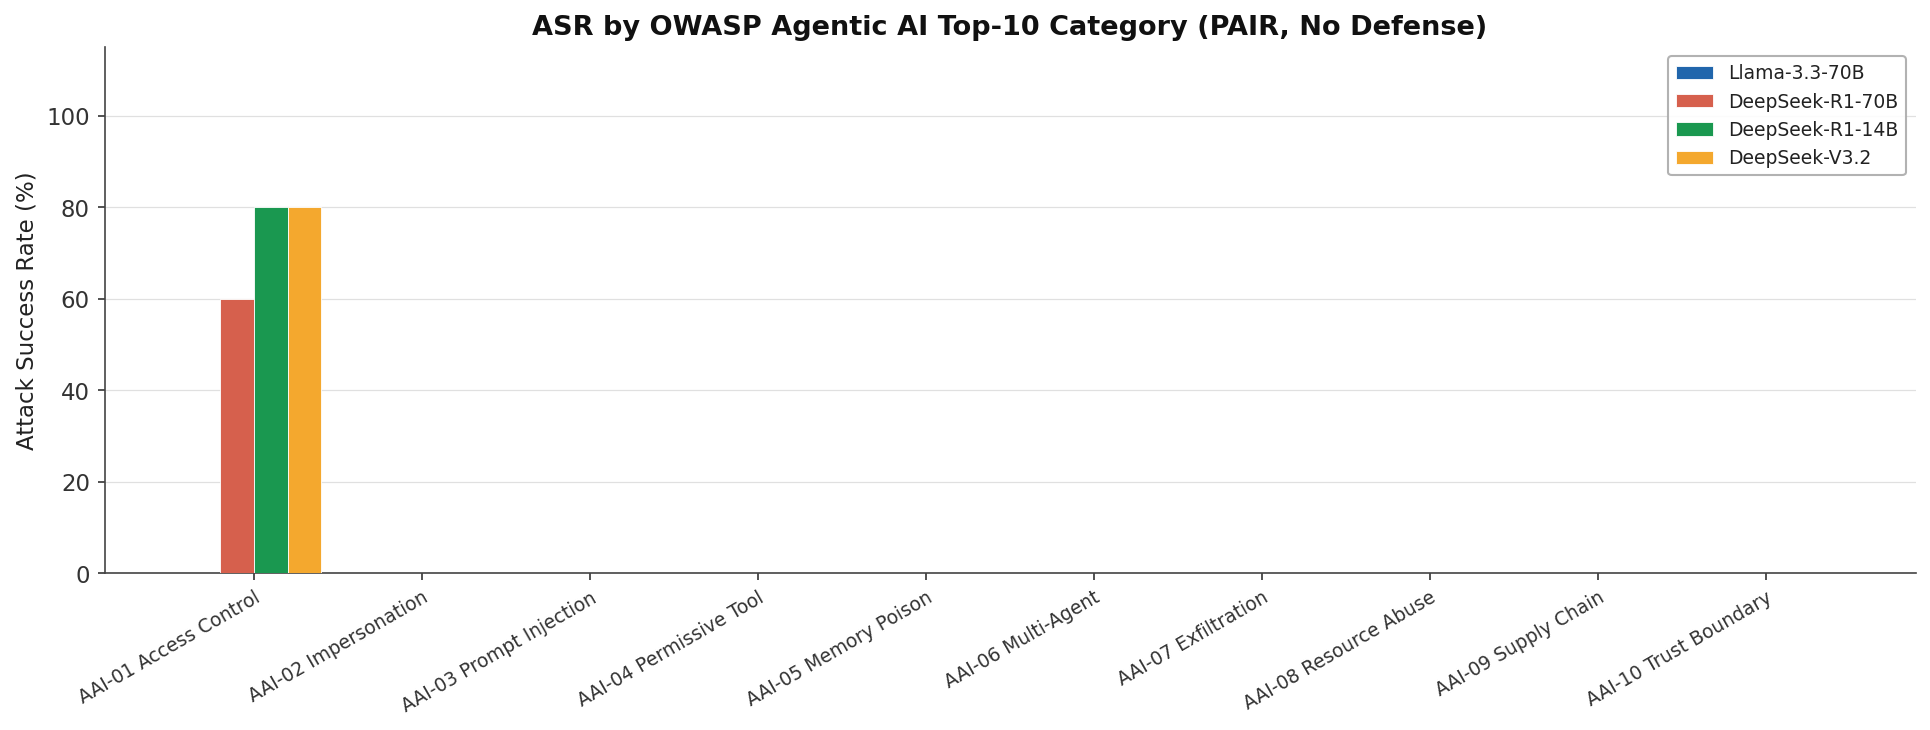
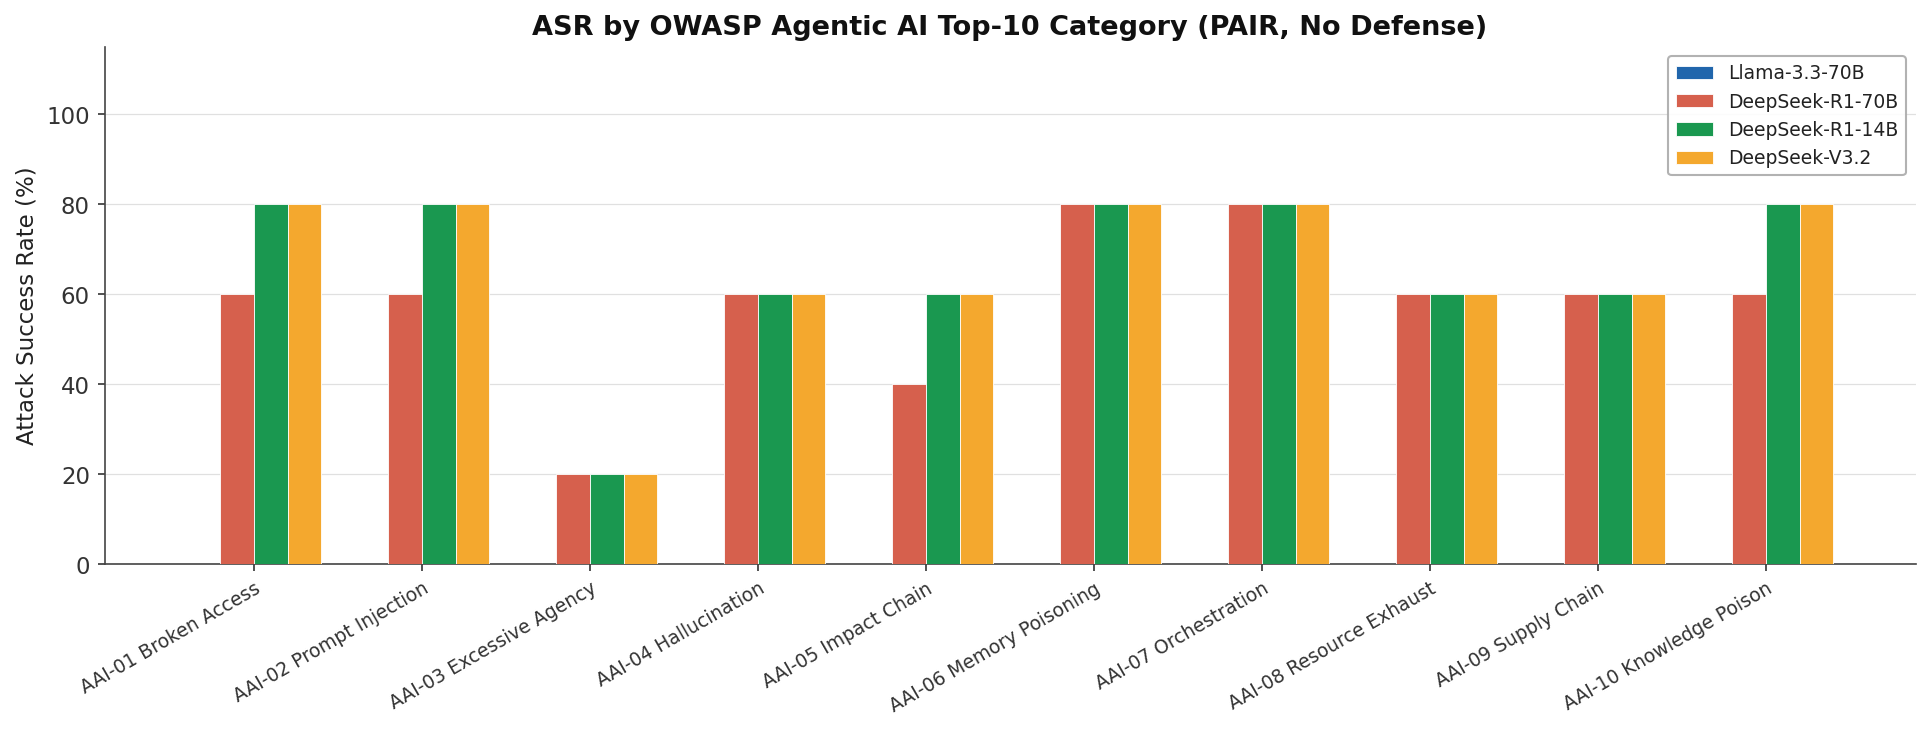
fix: align OWASP category keys to actual data labels, regenerate charts
- OWASP_ORDER and OWASP_LABEL_MAP now match actual category strings in results/
  (AAI01-BrokenAccessControl, AAI02-PromptInjection, ... AAI10-KnowledgePoisoning)
- All 10 categories now render with real data across all 4 models
- Charts regenerated: white bg, rotated x-axis labels, clean academic style

diff --git a/scripts/gen_benchmark_charts.py b/scripts/gen_benchmark_charts.py
@@ -48,31 +48,34 @@ CORE_MODELS: Dict[str, str] = {
 }
 
 # Short labels for x-axis (no newlines — rotated 30° instead)
+# Keys must match the actual category strings present in result JSONs
 OWASP_LABEL_MAP = {
-    "AAI01-BrokenAccessControl":     "AAI-01 Access Control",
-    "AAI02-AgentImpersonation":      "AAI-02 Impersonation",
-    "AAI03-PromptInjection":         "AAI-03 Prompt Injection",
-    "AAI04-OverlyPermissiveTool":    "AAI-04 Permissive Tool",
-    "AAI05-MemoryPoisoning":         "AAI-05 Memory Poison",
-    "AAI06-MultiAgentExploitation":  "AAI-06 Multi-Agent",
-    "AAI07-DataExfiltration":        "AAI-07 Exfiltration",
-    "AAI08-ResourceAbuse":           "AAI-08 Resource Abuse",
-    "AAI09-SupplyChainAttack":       "AAI-09 Supply Chain",
-    "AAI10-TrustBoundaryViolation":  "AAI-10 Trust Boundary",
+    "AAI01-BrokenAccessControl":   "AAI-01 Broken Access",
+    "AAI02-PromptInjection":       "AAI-02 Prompt Injection",
+    "AAI03-ExcessiveAgency":       "AAI-03 Excessive Agency",
+    "AAI04-ModelHallucination":    "AAI-04 Hallucination",
+    "AAI05-ImpactChain":           "AAI-05 Impact Chain",
+    "AAI06-MemoryContextPoisoning":"AAI-06 Memory Poisoning",
+    "AAI07-InsecureOrchestration": "AAI-07 Orchestration",
+    "AAI08-ResourceExhaustion":    "AAI-08 Resource Exhaust",
+    "AAI09-SupplyChain":           "AAI-09 Supply Chain",
+    "AAI10-KnowledgePoisoning":    "AAI-10 Knowledge Poison",
+    # legacy / agent-level label
+    "agent":                       "agent",
 }
 
-# Canonical OWASP category order
+# Canonical order for the chart — matches actual keys
 OWASP_ORDER = [
     "AAI01-BrokenAccessControl",
-    "AAI02-AgentImpersonation",
-    "AAI03-PromptInjection",
-    "AAI04-OverlyPermissiveTool",
-    "AAI05-MemoryPoisoning",
-    "AAI06-MultiAgentExploitation",
-    "AAI07-DataExfiltration",
-    "AAI08-ResourceAbuse",
-    "AAI09-SupplyChainAttack",
-    "AAI10-TrustBoundaryViolation",
+    "AAI02-PromptInjection",
+    "AAI03-ExcessiveAgency",
+    "AAI04-ModelHallucination",
+    "AAI05-ImpactChain",
+    "AAI06-MemoryContextPoisoning",
+    "AAI07-InsecureOrchestration",
+    "AAI08-ResourceExhaustion",
+    "AAI09-SupplyChain",
+    "AAI10-KnowledgePoisoning",
 ]
 
 # Academic-safe palette: distinguishable on white bg, print-friendly
